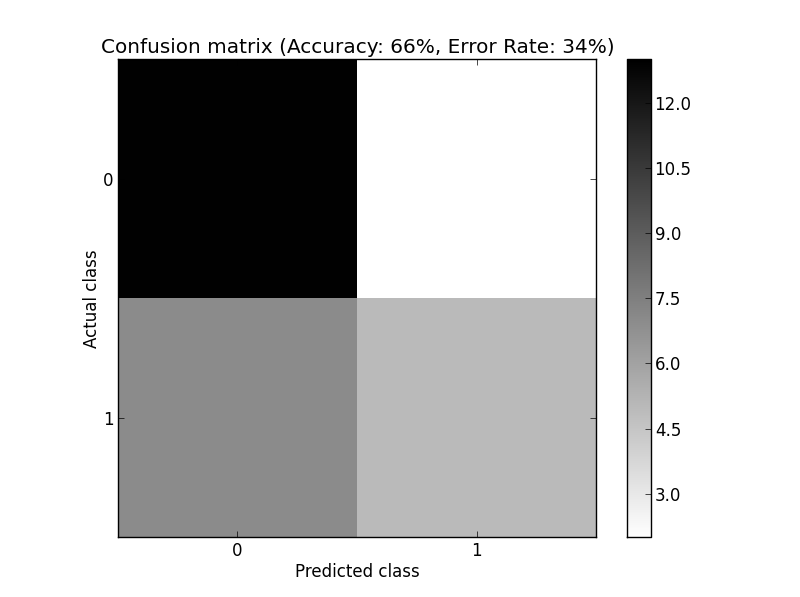
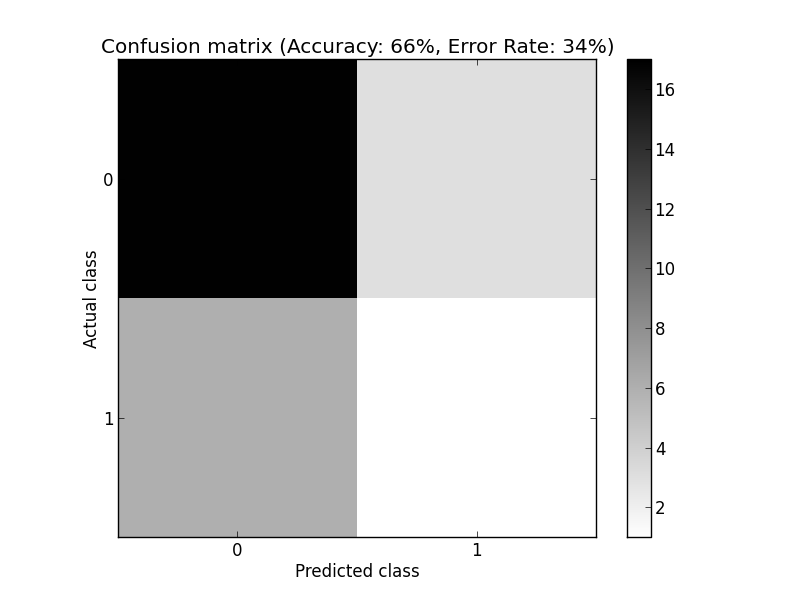
h

diff --git a/Projekt 2/Rapport/KNearestNeigbours.tex b/Projekt 2/Rapport/KNearestNeigbours.tex
@@ -28,7 +28,7 @@ The data set has been exposed to classification by looking at the k nearest neig
 \label{knnResults}
 \end{figure}
 
-The misclassification rates for these can be seen in Table \ref{knnErrorRate}.
+The misclassification rates for these, when choosing the best possible number of neighbours to look at, can be seen in Table \ref{knnErrorRate}.
 
 \begin{table}[H]
 \begin{longtable}{lc} \hline
@@ -50,6 +50,25 @@ Figure \ref{knnResultX2PA} & 30,5\% \\ \hline
 
 %The last figure uses only the two most important principal components. This gives an error of 30.5\% using 30 neighbours.
 
+For this method, we specify how many neighbours we will look at, and then for an object, we just look at the CHD-value of the nearest neighbours to decide the class of the element. In Figure \ref{performKNN}, we see the results of performing K-Nearest neighbours when only looking at the two most important principals components. The result of the classification is compared to their actual values. For this we have chosen to look at 30 neighbours which is the most optimal according to Figure \ref{knnResults}
+
+\begin{figure}[H]
+\begin{subfigure}[b]{0.5\textwidth}
+\includegraphics[scale=0.3]{pictures/knnUsedResult.png}
+\caption{Classification of objects according to neighbours.}
+\label{knnUsedResult}
+\end{subfigure}
+	\begin{subfigure}[b]{0.5\textwidth}
+\includegraphics[scale=0.3]{pictures/knnUsedActual.png}
+\caption{Actual value of objects.}
+\label{knnUsedResult}
+	\end{subfigure}
+\caption{Shows result of performing K-Nearest Neighbours and compares to actual values.}
+\label{performKNN}
+\end{figure}
+
+We have performed K-Nearest neighbouring for all the 4 kinds of input set. Each time this is done, we get a confusion matrix, and these can be seen in Figure \ref{cmResults}. These confusion matrixes shows the accuracy and error rate for the K-Nearest Neighbours performed before. For this we have chosen to look at the most optimal numbers of neighbours according to Figure \ref{knnResults}
+
 \begin{figure}[H]
 	\begin{subfigure}[b]{0.5\textwidth}
 	\includegraphics[scale=0.2]{pictures/cmX.png}
@@ -58,13 +77,13 @@ Figure \ref{knnResultX2PA} & 30,5\% \\ \hline
 	\end{subfigure}
 	\begin{subfigure}[b]{0.5\textwidth}
 	\includegraphics[scale=0.2]{pictures/cmXAD.png}	
-	\caption{Looking at attributes selected by forward selection.  Giving an accuracy of 54\%}
+	\caption{Looking at attributes selected by forward selection.  Giving an accuracy of 75\%}
 	\label{cmResultXad}
 	\end{subfigure}
 
 	\begin{subfigure}[b]{0.5\textwidth}
 	\includegraphics[scale=0.2]{pictures/cmPC.png}
-	\caption{Looking at all principal components. \newline Giving an accuracy of 72\%}
+	\caption{Looking at all principal components. \newline Giving an accuracy of 60\%}
 	\label{cmResultXPA}
 	\end{subfigure}
 	\begin{subfigure}[b]{0.5\textwidth}
@@ -75,5 +94,5 @@ Figure \ref{knnResultX2PA} & 30,5\% \\ \hline
 \caption{This figure shows results of doing a confusion matrix for different inputs}
 \label{cmResults}
 \end{figure}
-The above confusion matrixes shows the accuracy and error rate for the K-Nearest Neighbours performed before.
+%The above confusion matrixes shows the accuracy and error rate for the K-Nearest Neighbours performed before.
 

diff --git a/Projekt 2/Rapport/ann.tex b/Projekt 2/Rapport/ann.tex
@@ -8,7 +8,7 @@ When we fit our data to a ANN model with one hidden unit, it had an error rate t
 10 & 34.583719\% & 34.204440\% & 34.181314\% & 31.359852\% & 30.083256\% & 21.221092\% \\ \hline 
 \end{longtable}
 \end{table}
-Below you can see the 2 learning curves for 25 and 50 hidden units, with 10 k fold, where you are able to see the numbers of epochs (steps in training process) and how large an error rate were found during the computation.
+Below you can see the two learning curves for 25 and 50 hidden units, with 10 k fold, where you are able to see the numbers of epochs (steps in training process) and how large an error rate were found during the computation.
 \begin{figure}[H]
 \centering
 \includegraphics[width=7.5cm, keepaspectratio=true]{pictures/ann_1_10_25.png}
@@ -25,7 +25,7 @@ When we then try to compute the learning curve when we have taken the 4 least im
 \caption{\footnotesize 50 hidden on a 10 k fold with the 4 least important attributes taken out}
 \label{notfull_10_25_50}
 \end{figure}
-When we then are trying to fit the 2 principle components with the most influence in a ANN model then we are able 2 plot it in a 2d graph, and are able to see how well it actually fit. Since we now have the same numbers of input 462. This time we only have 4 outputs because we needed enough space to fit the output graphs. Figure \ref{ann} shows how well the 2 pc fits with 230 hidden units. You can see in the left lower graph is under fitted since it predict no one to have chd. The other 3 graphs is a bit harder to see if they over, under or just right fitted because of the way our data is structured in the graph. But we could properly say that they are a bit over fitted.
+When we then are trying to fit the 2 principle components with the most influence in a ANN model then we are able 2 plot it in a 2d graph, and are able to see how well it actually fit. Since we now have the same numbers of input 462. This time we only have 4 outputs because we needed enough space to fit the output graphs. Figure \ref{ann} shows how well the 2 pc fits with 230 hidden units. You can see in the left lower graph is under fitted since it predict no one to have chd. The other 3 graphs is a bit harder to see if they over, under or just right fitted because of the way our data is structured in the graph. %But we could properly say that they are a bit over fitted.
 \begin{figure}[H]
 \centering
 \includegraphics[width=15cm, keepaspectratio=true]{pictures/ann_2_4_230.png}

diff --git a/Projekt 3/src/methods.py b/Projekt 3/src/methods.py
@@ -1,0 +1,90 @@
+
+from sklearn.mixture import GMM
+from pylab import *
+from toolbox_02450 import clusterplot
+
+
+def gmm(X,y,M):
+    #X = X[:,0:2]
+    #y = y[:,:]
+    #M=2
+    #M += 3
+    # Number of clusters
+    
+    K = 4
+    
+    cov_type = 'full'       # type of covariance, you can try out 'diag' as well
+    
+    reps = 1                # number of fits with different initalizations, best result will be kept
+    
+    
+    
+    # Fit Gaussian mixture model
+    
+    gmm = GMM(n_components=K, covariance_type=cov_type, n_init=reps, params='wmc').fit(X)
+    
+    cls = gmm.predict(X)    # extract cluster labels
+    
+    cds = gmm.means_        # extract cluster centroids (means of gaussians)
+    
+    covs = gmm.covars_      # extract cluster shapes (covariances of gaussians)
+    
+    
+    
+    if cov_type == 'diag':
+    
+        new_covs = np.zeros([K,M,M])
+    
+        count = 0
+    
+        for elem in covs:
+    
+            temp_m = np.zeros([M,M])
+    
+            for i in range(len(elem)):
+    
+                temp_m[i][i] = elem[i]
+    
+            new_covs[count] = temp_m
+    
+            count += 1
+    
+        covs = new_covs
+    
+    
+    
+    # Plot results:
+    
+    figure(figsize=(14,9))
+    X2 = X[:,0:2]
+    M=2
+    
+    #for c in range(C):
+    #    class_mask = y.A.ravel()==c
+    #    plot(X[class_mask,attr1], X[class_mask,attr2], 'o')
+    ncolors = K
+    y2 = np.asarray(y)
+
+    hold(True)
+    colors = [0]*ncolors
+    for color in range(ncolors):
+        colors[color] = cm.jet.__call__(color*255/(ncolors-1))[:3]
+    for i,cs in enumerate(np.unique(y2)):
+        plot(X[(y2==cs).ravel(),0], X[(y2==cs).ravel(),1], 'o', markeredgecolor='k', markerfacecolor=colors[i],markersize=6, zorder=2)
+    for i,cr in enumerate(np.unique(cls)):
+        plot(X[(cls==cr).ravel(),0], X[(cls==cr).ravel(),1], 'o', markersize=12, markeredgecolor=colors[i], markerfacecolor='None', markeredgewidth=3, zorder=1)
+    if False:#centroids!='None':        
+        for cd in range(centroids.shape[0]):
+            plot(centroids[cd,0], centroids[cd,1], '*', markersize=22, markeredgecolor='k', markerfacecolor=colors[cd], markeredgewidth=2, zorder=3)
+
+    #clusterplot(X2, clusterid=cls, centroids=cds, y=y, covars=covs)
+    
+    show()
+
+
+def getPrincipalComponents(X):
+    Y = X - np.ones((len(X),1))*X.mean(0)
+    
+    U,S,V = linalg.svd(Y,full_matrices=False)
+    
+    return U

diff --git a/Projekt 2/Rapport/LogisticRegression.tex b/Projekt 2/Rapport/LogisticRegression.tex
@@ -29,7 +29,7 @@ We have applied logistic regression to our data. For logistic regression, we cal
 \label{logicalRegressionResults}
 \vspace{-0.4cm}
 \end{figure}
-See Figure \ref{logicalRegressionResults} to see output for our different input, when running Logistic Regression. Looking at Figure \ref{logicalRegressionResultX}, we see our results, when we have not alternated with the data, and likewise we see at Figure \ref{logicalRegressionResultXad}, our results for when, we have removed the attributes with less influence, meaning for this case we only look at the attributes: Age, Alcohol, Type-A, Family history, Low density lipoprotein cholesterol (LDL). For see especially from these to output of results that there is a tendency for subjects actually having the disease to have a higher probability of having the disease, even though we still see subjects having the disease with low predicted probability and likewise subjects not having the disease having a high predicted probability.
+See Figure \ref{logicalRegressionResults} to see output for our different input, when running Logistic Regression. Looking at Figure \ref{logicalRegressionResultX}, we see our results, when we have not alternated with the data, and likewise we see at Figure \ref{logicalRegressionResultXad}, our results for when, we have removed the attributes with less influence, meaning for this case we only look at the attributes: Age, Alcohol, Type-A, Family history, Low density lipoprotein cholesterol (LDL). From these two output of results we see a tendency that subjects actually having the disease also get a higher predicted probability of having the disease. Even though we still see subjects having the disease with low predicted probability and likewise subjects not having the disease having a high predicted probability.
 
 Looking at Figures \ref{logicalRegressionResultXPA} and \ref{logicalRegressionResultX2PA}, where we use principal components to give a logical regression of the data, also see a tendency of people actually having the disease, also have a higher predicted probability of having the disease. However we see that the interval of predicted probabilities are much less. Actually we see from these two graphs that all subjects have a predicted probability of less than 50\%.
 

diff --git a/Projekt 2/Rapport/DecisionTree.tex b/Projekt 2/Rapport/DecisionTree.tex
@@ -1,6 +1,6 @@
 \subsection{Decision Tree}
 
-We have created decision trees using the four different kinds of input as described in section \ref{classification} on page \pageref{classification}. Some of the output of these decision trees can be seen in Figure \ref{decisionTreeX}.
+We have created decision trees using the four different kinds of input as described in section \ref{classification} on page \pageref{classification}. The decision tree based on using all the attributes can be seen in Figure \ref{decisionTreeX}.%Some of the output of these decision trees can be seen in Figure \ref{decisionTreeX}.
 
 \begin{figure}[H]
 \center
@@ -13,7 +13,7 @@ Now one can use such decision trees to classify data objects, which is simply do
 
 Therefore one can go through each data object, and compare how it will be classified according to the decision trees and which value it truly has. This way we have calculated the misclassification error, which can be seen in Table \ref{decisionTreeErrorRate}
 
-The table below shows the error rate for the other computed decision trees. Unfortunately they would not fit into a report in a readable manor.
+The table below shows the error rate for the other computed decision trees as well.% Unfortunately they would not fit into a report in a readable manor.
 \begin{table}[H]
 \begin{longtable}{lc}\hline
 Result from: & Mis-classification rate \\ \hline

diff --git a/Projekt 3/src/Project3.py b/Projekt 3/src/Project3.py
@@ -1,0 +1,56 @@
+import xlrd
+from scipy.stats import zscore
+from methods import *
+from pylab import *
+
+
+#Converts Present and Absent into numbers.
+def convert(s):
+    if s == "Present":
+        return 1
+    else:
+        return 0
+
+#Load dataset
+doc = xlrd.open_workbook('../../dataset_sorted.xls').sheet_by_index(0)
+
+size = 463
+noAttributes = 9
+
+#Get attributes and classnames
+attributeNames = doc.row_values(0,1,noAttributes+1)
+attributeNamesCHD = doc.row_values(0,1,noAttributes+1+1)
+
+classLabels = doc.col_values(noAttributes+1,1,size)
+classNames = sorted(set(classLabels))
+classDict = dict(zip(classNames,range(2)))
+
+
+y = np.mat([classDict[value] for value in classLabels]).T
+
+X = np.mat(np.empty((size-1,noAttributes)))
+
+for i, col_id in enumerate(range(1,noAttributes+1+1)):
+    if(i < len(attributeNames) and attributeNames[i] == "famhist"):
+        temp12 = [convert(i2) for i2 in doc.col_values(col_id,1,size)]
+        if i < noAttributes:
+            X[:,i] = np.mat(temp12).T
+    else:
+        if i < noAttributes:
+            X[:,i] = np.mat(doc.col_values(col_id,1,size)).T
+
+M = len(attributeNames) 
+N = len(y)
+C = len(classNames)
+
+
+XStandardized = zscore(X, ddof=1)
+
+
+XPC = getPrincipalComponents(XStandardized)
+
+X2PC = np.copy(XPC)
+
+
+
+gmm(XPC,y,M)

diff --git a/Projekt 2/Rapport/classification.tex b/Projekt 2/Rapport/classification.tex
@@ -1,6 +1,6 @@
 \section{Classification}
 \label{classification}
-For our classification, we have worked with Logistic Regression, Decision Tree, K-nearest neighbours and Artificial Neural Network. All these methods have been applied, where we look at all the attributes of our dataset, where we only look at the attributes with the most importance according to our forward selection section \ref{ForwardSelection}, where we have standardized the data according to find principal components looking at all the principal components, and where we only look at the two most important principal components. Meaning we have given our data as four different types of input for these methods.
+For our classification, we have worked with Logistic Regression, Decision Tree and K-nearest neighbours. All these methods have been applied, where we look at all the attributes of our dataset, where we only look at the attributes with the most importance according to our forward selection section \ref{ForwardSelection}, where we have standardized the data according to find principal components looking at all the principal components, and where we only look at the two most important principal components. Meaning we have given our data as four different types of input for these methods.
 
 \input{LogisticRegression}
 

diff --git a/Projekt 2/Rapport/linearRegression.tex b/Projekt 2/Rapport/linearRegression.tex
@@ -46,7 +46,7 @@ The data is sorted, so it is easier to see the switch from negative CHD to posit
 
 The plot of the prediction shows that the model is definately not doing an excellent job predicting whether a person has CHD or not, however it is possible too see a pattern, that most negative CHD cases are < 0.5, and most positive CHD cases are > 0.5
 
-The overall misclassification rate using linear regression without feature selection is 35.7\%, and a misclassification rate of 37.1\% with feature selection.
+The overall misclassification rate using linear regression without feature selection is 35.7\%, and a misclassification rate of 37.1\% with feature selection. This is not good, eg. if we just classify everybody as CHD negative, we would get an misclassification of $\frac{160}{462} = 34,6\%$ as we have 160 objects with positive CHD out of an total of 462 objects.
 
 In the following section we will discuss if model transformation could possibly enhance the model
 \subsubsection{Residual error plot}
